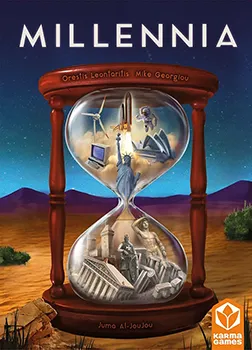
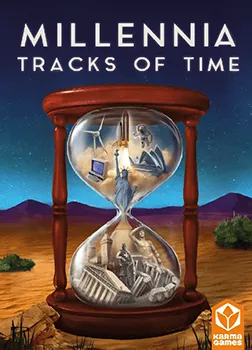
rename to millennia: tracks of time

diff --git a/index.html b/index.html
@@ -195,7 +195,7 @@
         },
         {
           name: "millennia",
-          title: "Millennia",
+          title: "Millennia: Tracks of Time",
           languages: ["en"],
           new: true
         },
